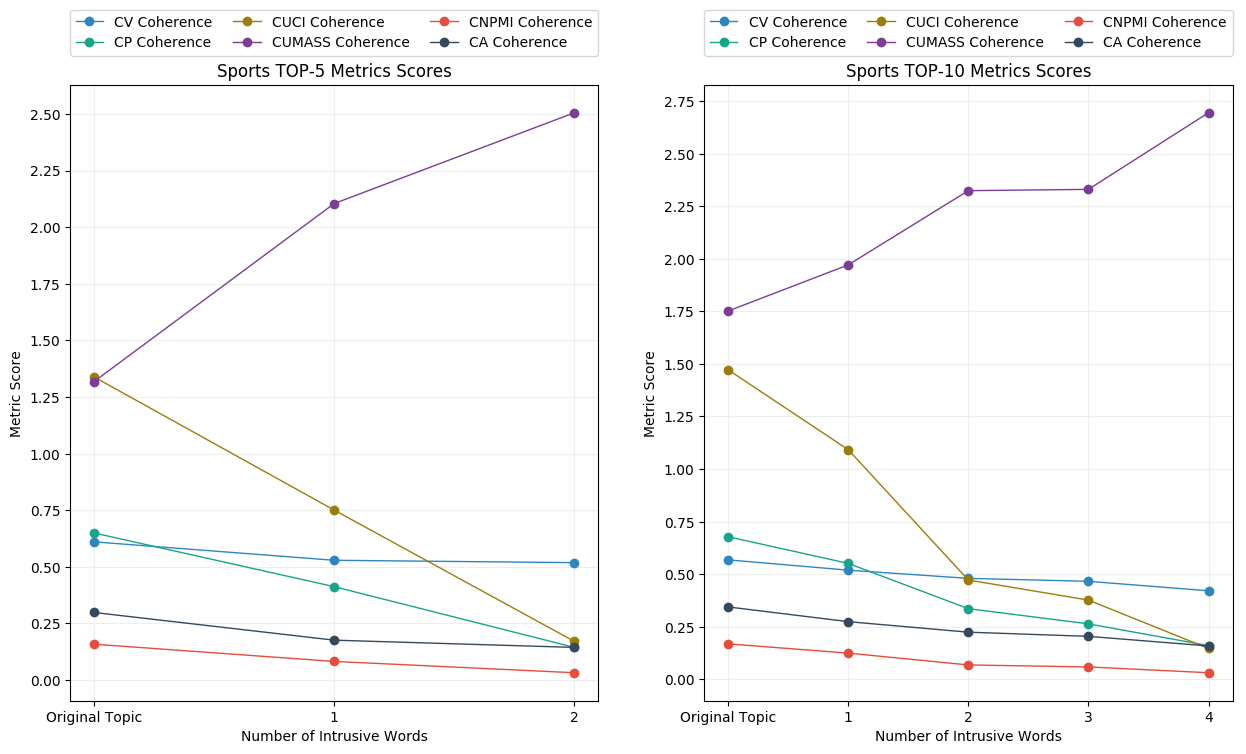
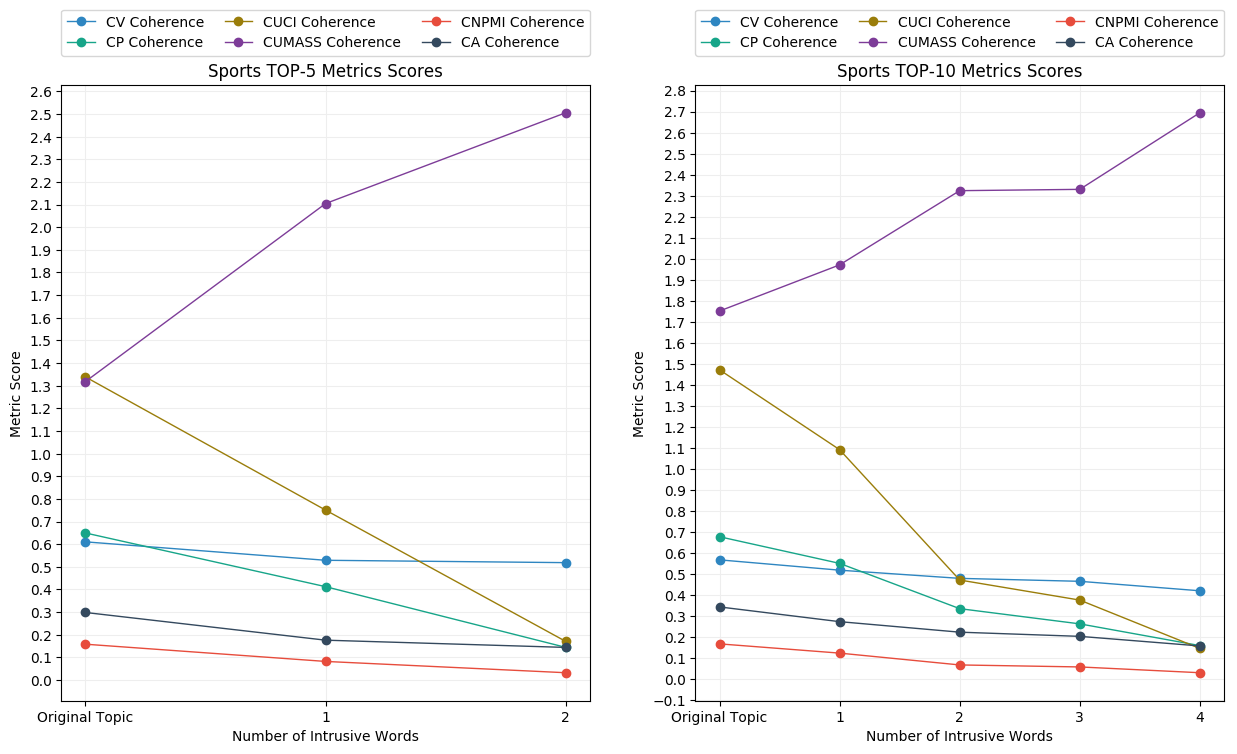
Using the absolute value for umass.

diff --git a/graphics/plot_graphic.py b/graphics/plot_graphic.py
@@ -18,7 +18,7 @@ def plot_graphic(top5, top10, topic):
     plot1.set_ylabel("Metric Score")
     plot1.set_xlabel("Number of Intrusive Words")
     plt.xticks(range(0, 3), ['Original Topic', '1', '2'])
-    plt.yticks(np.arange(-5,5, 0.25))
+    plt.yticks(np.arange(-5,5, 0.1))
     for metric in range(0,6):
         if metric == 3:
             plot1.plot(range(0,3), abs(top5[:,[metric]]), 'o-', color=COLORS[metric], linewidth = 1, label=METRICS[metric]+' Coherence')
@@ -33,7 +33,7 @@ def plot_graphic(top5, top10, topic):
     plot2.set_ylabel("Metric Score")
     plot2.set_xlabel("Number of Intrusive Words")
     plt.xticks(range(0, 5), ['Original Topic', '1', '2', '3', '4'])
-    plt.yticks(np.arange(-5,5, 0.25))
+    plt.yticks(np.arange(-5,5, 0.1))
     for metric in range(0,6):
         if metric == 3:
             plot2.plot(range(0,5), abs(top10[:,[metric]]), 'o-', color=COLORS[metric], linewidth = 1, label=METRICS[metric]+' Coherence')
